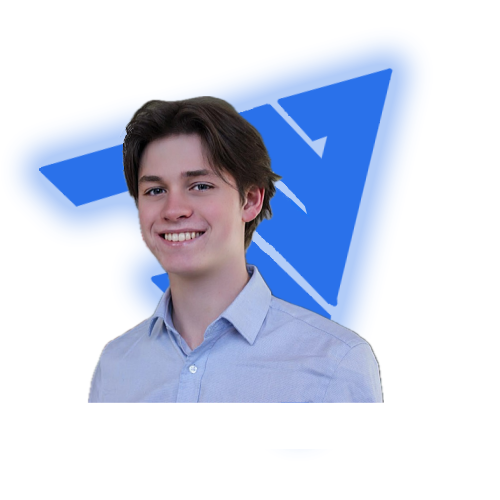
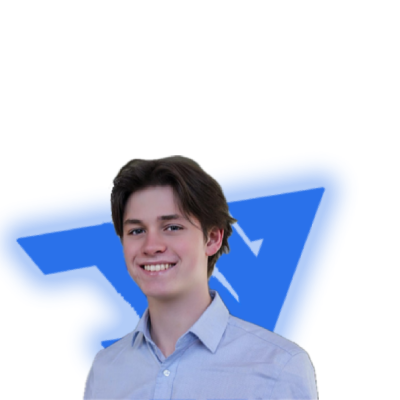
Lifebot/chassis/robot arm test
2024-06-02

diff --git a/index.html b/index.html
@@ -28,7 +28,7 @@
     
     <section id="profile">
       <div class="section__pic-containermobile">
-        <img src="./MyPortfolio/HeadShot-Mobile.png" 
+        <img src="./MyPortfolio/HeadShot.png" 
         alt="Josh Westlake Profile picture" >
       </div>
       <div class="section__text">
@@ -141,7 +141,7 @@
       
     <h1 class ="heading">LifeBot</h1>
      <div class="flex">
-      <div class ="image-container">
+      <div class ="image-container-mobile">
         <img src="MyPortfolio/LifeBot/LynxMotion.png"
         class ="image-format">
         <img src="MyPortfolio/LifeBot/Mapping (1).png"
@@ -157,6 +157,7 @@
               </div>
           </div>
         </div>
+        
         <div class="desktop">
         <div class="text-container">
         <h2 class="projects_subheading">What is LifeBot?</h2>
@@ -184,9 +185,18 @@
     </section>
     <section id="Chassis">
       
+      
       <h1 class ="heading">LifeBot Chassis</h1>
        <div class="flex">
-        
+        <div class ="image-container-mobile">
+          <img src="MyPortfolio/LifeBot/ChassisIRL.png"
+          class ="image-format">
+          <img src="MyPortfolio/LifeBot/TechDrawing.png"
+          class ="image-format">
+          <div class="project2-btn-container">
+            <button class="btn project2-btn-color" onclick="window.open('./MyPortfolio/LifeBot/TechDrawing.png')">Technical Drawing</button>
+          </div>
+        </div>
         
         <div class="desktop">
           <div class="text2-container">
@@ -200,6 +210,7 @@
             
           </div>
         </div>
+        <div class="mobile">
         <div class="text2-container">
           <h2 class="projects_subheading">What is the Chassis?</h2>
           <p class = "projects_mainText">The project aimed to design and implement a mounting solution for an Automated External Defibrillator (AED) device, ensuring its secure and accessible placement on a robotic platform for swift delivery during cardiac arrest emergencies. <a href class="read-more-link">Click here to read more</a></p>  
@@ -228,7 +239,7 @@
       
         <h1 class ="heading">3 Axis Robot Arm</h1>
          <div class="flex">
-          <div class ="image-container">
+          <div class ="image-container-mobile">
             <img src="MyPortfolio/RoboticArm/RobotArmV1/RobotArmV1.jpg"
             class ="image-format">
             <img src="MyPortfolio/RoboticArm/RobotArmV1/Base.jpg"
@@ -239,28 +250,44 @@
                     <button class="btn project-btn-color" onclick="window.open('./MyPortfolio/RoboticArm/RobotArmV1/Documentation.pdf')">Documentation</button>
                   </div>
               </div>
+              <div class="desktop">
+                <div class="text-container">
+                  <h2 class="projects_subheading">What is the Purpose?</h2>
+                  <p class = "projects_mainText">The purpose of the project was to engineer a robotic arm attachment for wheelchairs, specifically designed to empower individuals with limited grip strength in manipulating objects with ease and precision. This solution aims to enhance autonomy and quality of life by enabling users to perform daily tasks, such as handling mobile phones, independently.
+                  </p>
+                  <h2 class="projects_subheading">How was this accomplished?</h2>
+                  <p class = "projects_mainText"> The project required meticulous selection and integration of various components into the arm's design, including craft sticks for structural support, wire connectors for electrical connections, and an Arduino Uno as the central control unit. These components were strategically chosen to ensure optimal performance and reliability, meeting the specific requirements of the arm's functionality.
+                  </p>  
+                  <p class= "projects_mainText">Integral to the arm's operation is the gearbox mechanism, comprising gears, rods, and motors. The gearbox transmits rotational motion and torque from the DC motors to facilitate smooth and efficient movement of the arm's gripper mechanism. Additionally, the incorporation of a stepper motor enables precise control and manipulation of objects, enhancing the arm's functionality and usability. Through iterative design iterations and rigorous testing, the project successfully developed a practical and efficient solution. CAD software was utilized to refine and optimize the arm's geometry, ensuring structural integrity and mechanical robustness. Furthermore, simulation techniques, such as stress analysis and displacement analysis, were employed to validate the arm's performance under operational loads, confirming its reliability and effectiveness in assisting individuals with grip strength limitations.
+                  </p>
+                  <p class= "projects_mainText">The Arduino Uno was chosen to interface with sensors, motors, and other electronic components, enabling seamless communication and coordination within the robotic arm system. Its ability to process input signals and execute predefined instructions allows for intuitive user control, enhancing the arm's usability and accessibility.
+                  </p>
+                  </div>
+               </div>
+               <div class="mobile">
+               <div class="text-container">
+                  <h2 class="projects_subheading">What is the Purpose?</h2>
+                  <p class = "projects_mainText">The purpose of the project was to engineer a robotic arm attachment for wheelchairs, specifically designed to empower individuals with limited grip strength in manipulating objects with ease and precision. This solution aims to enhance autonomy and quality of life by enabling users to perform daily tasks, such as handling mobile phones, independently.<a href class="read-more-link">Click here to read more</a></p>  
+               <div class="additional-text">
+           <h2 class="projects_subheading">How was this accomplished?</h2>
+                  <p class = "projects_mainText"> The project required meticulous selection and integration of various components into the arm's design, including craft sticks for structural support, wire connectors for electrical connections, and an Arduino Uno as the central control unit. These components were strategically chosen to ensure optimal performance and reliability, meeting the specific requirements of the arm's functionality.
+                  </p>  
+                  <p class= "projects_mainText">Integral to the arm's operation is the gearbox mechanism, comprising gears, rods, and motors. The gearbox transmits rotational motion and torque from the DC motors to facilitate smooth and efficient movement of the arm's gripper mechanism. Additionally, the incorporation of a stepper motor enables precise control and manipulation of objects, enhancing the arm's functionality and usability. Through iterative design iterations and rigorous testing, the project successfully developed a practical and efficient solution. CAD software was utilized to refine and optimize the arm's geometry, ensuring structural integrity and mechanical robustness. Furthermore, simulation techniques, such as stress analysis and displacement analysis, were employed to validate the arm's performance under operational loads, confirming its reliability and effectiveness in assisting individuals with grip strength limitations.
+                  </p>
+                  <p class= "projects_mainText">The Arduino Uno was chosen to interface with sensors, motors, and other electronic components, enabling seamless communication and coordination within the robotic arm system. Its ability to process input signals and execute predefined instructions allows for intuitive user control, enhancing the arm's usability and accessibility.
+                  </p>
+                  
+                  <h2 class="projects_subheading">What was the result?
+                  </h2>
+                  <p class= "projects_mainText">While individual subsystems showed success, the overall prototype failed to meet project requirements.
+                    This was due to the inconsistent gearbox performance, slow gripper motion, and structural limitations of  the popsicle stick truss. 
+                  </p>
+                  <p class= "projects_mainText">Future iterations of the robot have commenced with a focus on strengthening connections, optimizing motor speed, and reducing friction in the gripper system for increased efficiency and functionality.
+                  </p>
+                  </div>
+                </div>
+              </div>
             </div>
-            <div class="text-container">
-            <h2 class="projects_subheading">What is the Purpose?</h2>
-            <p class = "projects_mainText">The purpose of the project was to engineer a robotic arm attachment for wheelchairs, specifically designed to empower individuals with limited grip strength in manipulating objects with ease and precision. This solution aims to enhance autonomy and quality of life by enabling users to perform daily tasks, such as handling mobile phones, independently.
-            </p>
-            <h2 class="projects_subheading">How was this accomplished?</h2>
-            <p class = "projects_mainText"> The project required meticulous selection and integration of various components into the arm's design, including craft sticks for structural support, wire connectors for electrical connections, and an Arduino Uno as the central control unit. These components were strategically chosen to ensure optimal performance and reliability, meeting the specific requirements of the arm's functionality.
-            </p>  
-            <p class= "projects_mainText">Integral to the arm's operation is the gearbox mechanism, comprising gears, rods, and motors. The gearbox transmits rotational motion and torque from the DC motors to facilitate smooth and efficient movement of the arm's gripper mechanism. Additionally, the incorporation of a stepper motor enables precise control and manipulation of objects, enhancing the arm's functionality and usability. Through iterative design iterations and rigorous testing, the project successfully developed a practical and efficient solution. CAD software was utilized to refine and optimize the arm's geometry, ensuring structural integrity and mechanical robustness. Furthermore, simulation techniques, such as stress analysis and displacement analysis, were employed to validate the arm's performance under operational loads, confirming its reliability and effectiveness in assisting individuals with grip strength limitations.
-            </p>
-            <p class= "projects_mainText">The Arduino Uno was chosen to interface with sensors, motors, and other electronic components, enabling seamless communication and coordination within the robotic arm system. Its ability to process input signals and execute predefined instructions allows for intuitive user control, enhancing the arm's usability and accessibility.
-            </p>
-            
-            <h2 class="projects_subheading">What was the result?
-            </h2>
-            <p class= "projects_mainText">While individual subsystems showed success, the overall prototype failed to meet project requirements.
-              This was due to the inconsistent gearbox performance, slow gripper motion, and structural limitations of  the popsicle stick truss. 
-            </p>
-            <p class= "projects_mainText">Future iterations of the robot have commenced with a focus on strengthening connections, optimizing motor speed, and reducing friction in the gripper system for increased efficiency and functionality.
-            </p>
-          </div>
-         </div>
         </section>
         <section id="Subframe">
       
@@ -279,17 +306,23 @@
               <p class= "projects_mainText">The final design achieved a significant weight reduction, bringing the subframe's weight down from 29.6 kg to 7.7 kg, thus enhancing the vehicle's acceleration and control. The use of 4130 steel tubing provided the necessary strength to withstand the forces encountered during racing. The simplified design, free from cross-bracing, was not only lighter but also easier and more cost-effective to manufacture. Finite Element Analysis (FEA) simulations confirmed that the subframe could handle the required forces, ensuring it met all safety and performance criteria. The detachable subframe design successfully balanced weight reduction, durability, and manufacturability, aligning with the project's goals and constraints.
             </p>
             </div>
-            <div class ="image-container">
+            <div class ="image-container-mobile">
               <img src="MyPortfolio/FormulaSAE Rear Subframe/Subframe.png"
               class ="image-format">
               <img src="MyPortfolio/FormulaSAE Rear Subframe/plugs.png"
               class ="image-format">
+              <div class ="image-container-desktop">
+                <img src="MyPortfolio/FormulaSAE Rear Subframe/Subframe.png"
+                class ="image-format">
+                <img src="MyPortfolio/FormulaSAE Rear Subframe/plugs.png"
+                class ="image-format">
               <div class="project2-btn-container">
                 <button class="btn project2-btn-color" onclick="window.open('./MyPortfolio/FormulaSAE Rear Subframe/TechDrawing.png')">Technical Drawings</button>
                 <button class="btn project-btn-color" onclick="window.open('./MyPortfolio/FormulaSAE Rear Subframe/Documentation.pdf')">Documentation</button>
               </div>
             </div>
     
+           </div>
            </div>
            </section>
            <section id="MiniBot">
@@ -362,16 +395,18 @@
                  </section>
                  <script>
                   document.addEventListener("DOMContentLoaded", function() {
-                  var readMoreLink = document.querySelector('.read-more-link');
-                  var additionalContent = document.querySelector('.additional-text');
+        var readMoreLinks = document.querySelectorAll('.read-more-link');
 
-                  readMoreLink.addEventListener('click', function(event) {
-                  event.preventDefault(); // Prevent the default behavior of the link
+        readMoreLinks.forEach(function(link) {
+            link.addEventListener('click', function(event) {
+                event.preventDefault(); // Prevent the default behavior of the link
 
-                  // Toggle the display of the additional content
-                  additionalContent.style.display = (additionalContent.style.display === 'none') ? 'block' : 'none';
+                var additionalContent = link.closest('.mobile').querySelector('.additional-text');
+                // Toggle the display of the additional content
+                additionalContent.style.display = (additionalContent.style.display === 'none' || additionalContent.style.display === '') ? 'block' : 'none';
+            });
+        });
     });
-});
               </script>
   
   </body>

diff --git a/css/styletest.css b/css/styletest.css
@@ -36,12 +36,12 @@ nav {
     justify-content: space-around;
     align-items: center;
     height: 17vh;
-    width: 100vw;
+    width:auto;
     
 }
 
 .nav-links {
-    gap: 5rem;
+    gap: 10vw;
     list-style: none ;
     font-size: 2rem;
     font-weight: 900;
@@ -108,7 +108,8 @@ section {
 .section__pic-containermobile {
     display: flex;
     height: 600px;
-    margin: 0 auto;
+    margin: auto;
+    
 }
 
 .section__text {
@@ -230,6 +231,10 @@ section {
 
 
 /* Projects */
+#projects{
+    display:contents;
+    align-self: center;
+}
 .robotics_btn_container {
     display: contents;
     justify-content: center;
@@ -354,8 +359,8 @@ section {
 }
 
 .gallery-items {
-    flex-basis: calc(33.33% - 80px);
-    margin: 1px;
+    flex-basis: calc(33.33% - 20px);
+    margin: 5px;
 }
 
 .gallery-image {
@@ -367,10 +372,10 @@ section {
 /* LIFEBOT */
 
 #LifeBot{
+    
+    justify-content: center;
+    gap: 4rem;  
     display:inline;
-    margin-top: rem;
-    flex-direction: row;
-    margin-bottom: 8rem;
 }
   .heading{
     
@@ -384,12 +389,14 @@ section {
   
   .image-container{
   
+    display:none;
     
-    display:content;
-    flex-direction:column;
-    align-items: left;
+  }
+  .image-container-mobile{
     
-    
+    display:inline;
+    flex-direction: column;
+    align-self: center;
   }
   .image-format{
     width: 70vw;
@@ -398,14 +405,16 @@ section {
     margin-top: 2rem;
     flex-direction: row;
     
-    margin-left: 0;
-    margin-right:0;
+    margin-left: auto;
+    margin-right:auto;
     z-index: 10;
+    
     
   }
   .text-container{
     flex:lpx;
     padding-left: 20px;
+    text-align: center;
     
     
   }
@@ -478,22 +487,24 @@ section {
   
     /*chassis*/
     #Chassis{
-    display:flex;
-    margin-top: 2rem;
-    flex-direction: column;
-    width:auto;
     
+        justify-content: center;
+        gap: 4rem;  
+        display:inline;
     }
+    
+    
     .text2-container{
-      z-index: 10;
-      flex:l;
-      padding-right: 60px;
-      margin-bottom: 2rem;
+        flex: 10px;
+        padding-left: 20px;
+        text-align: center;
+        
     }
     .project2-btn-container{
       margin-left:auto;
       margin-right: auto;
       z-index: 10;
+      
      
     }
   
@@ -513,10 +524,11 @@ section {
     }
     /*RobotArm*/
     #RobotArm{
-      display: flex;
-      margin-top: 15rem;
-      flex-direction: column;
-      z-index: 10000;
+        justify-content: center;
+        gap: 2rem;  
+        display:inline;
+      
+      
     }
   
   /*BlueLight*/
@@ -524,6 +536,7 @@ section {
     display: flex;
     margin-top: 0rem;
     flex-direction: column;
+    display: none;
     
   }
   
@@ -532,6 +545,7 @@ section {
     display: flex;
     margin-top: 0rem;
     flex-direction: column;
+    display:none;
     
   }
   /*subframe*/
@@ -539,4 +553,5 @@ section {
     display: flex;
     margin-top: 0rem;
     flex-direction: column;
+    display:none;
   }

diff --git a/css/style.css b/css/style.css
@@ -377,6 +377,10 @@ section {
   
   
 }
+.image-container-mobile{
+  display:none;
+}
+
 .image-format{
   width: 400px;
   display: block;
